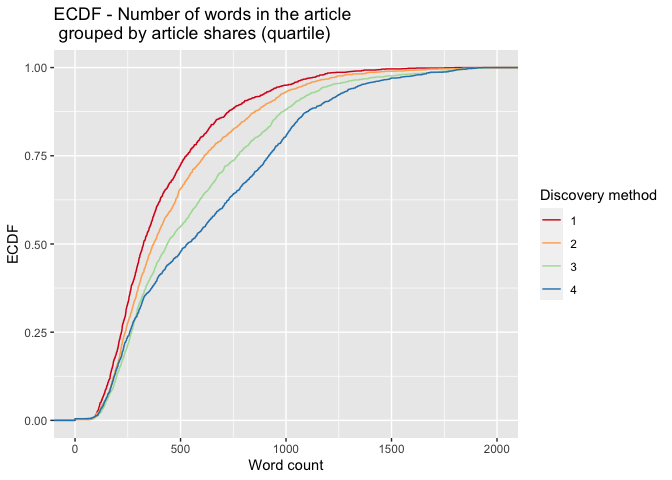
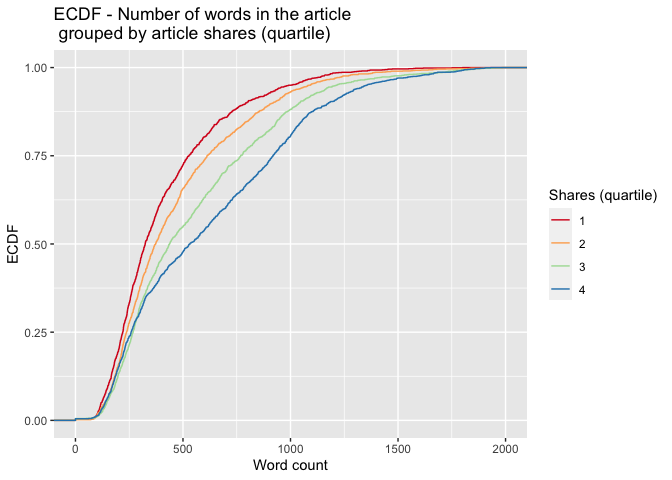
Minor formatting edits

diff --git a/data_channel_is_lifestyle.md b/data_channel_is_lifestyle.md
@@ -38,23 +38,6 @@ set](https://archive.ics.uci.edu/ml/datasets/Online+News+Popularity).
 The top ten articles in this category, based on the number of shares on
 social media, include the following titles:
 
-    ## # A tibble: 10 × 3
-    ##    url            shares title
-    ##    <chr>           <dbl> <lgl>
-    ##  1 http://mashab… 843300 NA   
-    ##  2 http://mashab… 690400 NA   
-    ##  3 http://mashab… 663600 NA   
-    ##  4 http://mashab… 652900 NA   
-    ##  5 http://mashab… 617900 NA   
-    ##  6 http://mashab… 441000 NA   
-    ##  7 http://mashab… 310800 NA   
-    ##  8 http://mashab… 306100 NA   
-    ##  9 http://mashab… 298400 NA   
-    ## 10 http://mashab… 284700 NA
-
-    ## Warning: Unknown or
-    ## uninitialised column: `title`.
-
 | Shares | Article title                                                   |
 |-------:|:----------------------------------------------------------------|
 | 843300 | Leaked: More Low-Cost iPhone Photos                             |
@@ -248,7 +231,7 @@ sharesBox + geom_boxplot(outlier.shape = NA) +
   # Remove legend after coloration
   theme(legend.position = "none") +
   labs(x = "Day", y = "Shares",
-       title = "Distribution of article shares for each publication day") + scale_fill_brewer(palette = "Spectral", name = "Discovery method")
+       title = "Distribution of article shares for each publication day") + scale_fill_brewer(palette = "Spectral")
 ```
 
 ![](images/lifestyle/boxpot%20-1.png)<!-- -->
@@ -262,12 +245,11 @@ binnedShares <- binnedShares %>% mutate(totalMedia = num_imgs + num_videos)
 avgWordHisto <- ggplot(binnedShares, aes(x = n_tokens_content, colour = shareQuantile))
 avgWordHisto + stat_ecdf(geom = "step", aes(color = as.character(shareQuantile))) +
   labs(title="ECDF - Number of words in the article \n grouped by article shares (quartile)",
-     y = "ECDF", x="Word count", color = "Shares (quartile)") + xlim(0,2000) + scale_colour_brewer(palette = "Spectral", name = "Discovery method")
+     y = "ECDF", x="Word count", color = "Shares (quartile)") + xlim(0,2000) + scale_colour_brewer(palette = "Spectral", name = "Shares (quartile)")
 ```
 
     ## Warning: Removed 32 rows containing
-    ## non-finite values
-    ## (stat_ecdf).
+    ## non-finite values (stat_ecdf).
 
 ![](images/lifestyle/ecdf-1.png)<!-- -->
 

diff --git a/data_channel_is_entertainment.md b/data_channel_is_entertainment.md
@@ -38,23 +38,6 @@ set](https://archive.ics.uci.edu/ml/datasets/Online+News+Popularity).
 The top ten articles in this category, based on the number of shares on
 social media, include the following titles:
 
-    ## # A tibble: 10 × 3
-    ##    url                  shares title
-    ##    <chr>                 <dbl> <lgl>
-    ##  1 http://mashable.com… 843300 NA   
-    ##  2 http://mashable.com… 690400 NA   
-    ##  3 http://mashable.com… 663600 NA   
-    ##  4 http://mashable.com… 652900 NA   
-    ##  5 http://mashable.com… 617900 NA   
-    ##  6 http://mashable.com… 441000 NA   
-    ##  7 http://mashable.com… 310800 NA   
-    ##  8 http://mashable.com… 306100 NA   
-    ##  9 http://mashable.com… 298400 NA   
-    ## 10 http://mashable.com… 284700 NA
-
-    ## Warning: Unknown or uninitialised
-    ## column: `title`.
-
 | Shares | Article title                                                   |
 |-------:|:----------------------------------------------------------------|
 | 843300 | Leaked: More Low-Cost iPhone Photos                             |
@@ -248,7 +231,7 @@ sharesBox + geom_boxplot(outlier.shape = NA) +
   # Remove legend after coloration
   theme(legend.position = "none") +
   labs(x = "Day", y = "Shares",
-       title = "Distribution of article shares for each publication day") + scale_fill_brewer(palette = "Spectral", name = "Discovery method")
+       title = "Distribution of article shares for each publication day") + scale_fill_brewer(palette = "Spectral")
 ```
 
 ![](images/entertainment/boxpot%20-1.png)<!-- -->
@@ -262,7 +245,7 @@ binnedShares <- binnedShares %>% mutate(totalMedia = num_imgs + num_videos)
 avgWordHisto <- ggplot(binnedShares, aes(x = n_tokens_content, colour = shareQuantile))
 avgWordHisto + stat_ecdf(geom = "step", aes(color = as.character(shareQuantile))) +
   labs(title="ECDF - Number of words in the article \n grouped by article shares (quartile)",
-     y = "ECDF", x="Word count", color = "Shares (quartile)") + xlim(0,2000) + scale_colour_brewer(palette = "Spectral", name = "Discovery method")
+     y = "ECDF", x="Word count", color = "Shares (quartile)") + xlim(0,2000) + scale_colour_brewer(palette = "Spectral", name = "Shares (quartile)")
 ```
 
     ## Warning: Removed 165 rows containing

diff --git a/data_channel_is_socmed.md b/data_channel_is_socmed.md
@@ -38,23 +38,6 @@ set](https://archive.ics.uci.edu/ml/datasets/Online+News+Popularity).
 The top ten articles in this category, based on the number of shares on
 social media, include the following titles:
 
-    ## # A tibble: 10 × 3
-    ##    url                  shares title
-    ##    <chr>                 <dbl> <lgl>
-    ##  1 http://mashable.com… 843300 NA   
-    ##  2 http://mashable.com… 690400 NA   
-    ##  3 http://mashable.com… 663600 NA   
-    ##  4 http://mashable.com… 652900 NA   
-    ##  5 http://mashable.com… 617900 NA   
-    ##  6 http://mashable.com… 441000 NA   
-    ##  7 http://mashable.com… 310800 NA   
-    ##  8 http://mashable.com… 306100 NA   
-    ##  9 http://mashable.com… 298400 NA   
-    ## 10 http://mashable.com… 284700 NA
-
-    ## Warning: Unknown or uninitialised
-    ## column: `title`.
-
 | Shares | Article title                                                   |
 |-------:|:----------------------------------------------------------------|
 | 843300 | Leaked: More Low-Cost iPhone Photos                             |
@@ -248,7 +231,7 @@ sharesBox + geom_boxplot(outlier.shape = NA) +
   # Remove legend after coloration
   theme(legend.position = "none") +
   labs(x = "Day", y = "Shares",
-       title = "Distribution of article shares for each publication day") + scale_fill_brewer(palette = "Spectral", name = "Discovery method")
+       title = "Distribution of article shares for each publication day") + scale_fill_brewer(palette = "Spectral")
 ```
 
 ![](images/socmed/boxpot%20-1.png)<!-- -->
@@ -262,7 +245,7 @@ binnedShares <- binnedShares %>% mutate(totalMedia = num_imgs + num_videos)
 avgWordHisto <- ggplot(binnedShares, aes(x = n_tokens_content, colour = shareQuantile))
 avgWordHisto + stat_ecdf(geom = "step", aes(color = as.character(shareQuantile))) +
   labs(title="ECDF - Number of words in the article \n grouped by article shares (quartile)",
-     y = "ECDF", x="Word count", color = "Shares (quartile)") + xlim(0,2000) + scale_colour_brewer(palette = "Spectral", name = "Discovery method")
+     y = "ECDF", x="Word count", color = "Shares (quartile)") + xlim(0,2000) + scale_colour_brewer(palette = "Spectral", name = "Shares (quartile)")
 ```
 
     ## Warning: Removed 102 rows containing

diff --git a/data_channel_is_tech.md b/data_channel_is_tech.md
@@ -38,23 +38,6 @@ set](https://archive.ics.uci.edu/ml/datasets/Online+News+Popularity).
 The top ten articles in this category, based on the number of shares on
 social media, include the following titles:
 
-    ## # A tibble: 10 × 3
-    ##    url                  shares title
-    ##    <chr>                 <dbl> <lgl>
-    ##  1 http://mashable.com… 843300 NA   
-    ##  2 http://mashable.com… 690400 NA   
-    ##  3 http://mashable.com… 663600 NA   
-    ##  4 http://mashable.com… 652900 NA   
-    ##  5 http://mashable.com… 617900 NA   
-    ##  6 http://mashable.com… 441000 NA   
-    ##  7 http://mashable.com… 310800 NA   
-    ##  8 http://mashable.com… 306100 NA   
-    ##  9 http://mashable.com… 298400 NA   
-    ## 10 http://mashable.com… 284700 NA
-
-    ## Warning: Unknown or uninitialised
-    ## column: `title`.
-
 | Shares | Article title                                                   |
 |-------:|:----------------------------------------------------------------|
 | 843300 | Leaked: More Low-Cost iPhone Photos                             |
@@ -248,7 +231,7 @@ sharesBox + geom_boxplot(outlier.shape = NA) +
   # Remove legend after coloration
   theme(legend.position = "none") +
   labs(x = "Day", y = "Shares",
-       title = "Distribution of article shares for each publication day") + scale_fill_brewer(palette = "Spectral", name = "Discovery method")
+       title = "Distribution of article shares for each publication day") + scale_fill_brewer(palette = "Spectral")
 ```
 
 ![](images/tech/boxpot%20-1.png)<!-- -->
@@ -262,7 +245,7 @@ binnedShares <- binnedShares %>% mutate(totalMedia = num_imgs + num_videos)
 avgWordHisto <- ggplot(binnedShares, aes(x = n_tokens_content, colour = shareQuantile))
 avgWordHisto + stat_ecdf(geom = "step", aes(color = as.character(shareQuantile))) +
   labs(title="ECDF - Number of words in the article \n grouped by article shares (quartile)",
-     y = "ECDF", x="Word count", color = "Shares (quartile)") + xlim(0,2000) + scale_colour_brewer(palette = "Spectral", name = "Discovery method")
+     y = "ECDF", x="Word count", color = "Shares (quartile)") + xlim(0,2000) + scale_colour_brewer(palette = "Spectral", name = "Shares (quartile)")
 ```
 
     ## Warning: Removed 157 rows containing

diff --git a/data_channel_is_world.md b/data_channel_is_world.md
@@ -38,23 +38,6 @@ set](https://archive.ics.uci.edu/ml/datasets/Online+News+Popularity).
 The top ten articles in this category, based on the number of shares on
 social media, include the following titles:
 
-    ## # A tibble: 10 × 3
-    ##    url                  shares title
-    ##    <chr>                 <dbl> <lgl>
-    ##  1 http://mashable.com… 843300 NA   
-    ##  2 http://mashable.com… 690400 NA   
-    ##  3 http://mashable.com… 663600 NA   
-    ##  4 http://mashable.com… 652900 NA   
-    ##  5 http://mashable.com… 617900 NA   
-    ##  6 http://mashable.com… 441000 NA   
-    ##  7 http://mashable.com… 310800 NA   
-    ##  8 http://mashable.com… 306100 NA   
-    ##  9 http://mashable.com… 298400 NA   
-    ## 10 http://mashable.com… 284700 NA
-
-    ## Warning: Unknown or uninitialised
-    ## column: `title`.
-
 | Shares | Article title                                                   |
 |-------:|:----------------------------------------------------------------|
 | 843300 | Leaked: More Low-Cost iPhone Photos                             |
@@ -248,7 +231,7 @@ sharesBox + geom_boxplot(outlier.shape = NA) +
   # Remove legend after coloration
   theme(legend.position = "none") +
   labs(x = "Day", y = "Shares",
-       title = "Distribution of article shares for each publication day") + scale_fill_brewer(palette = "Spectral", name = "Discovery method")
+       title = "Distribution of article shares for each publication day") + scale_fill_brewer(palette = "Spectral")
 ```
 
 ![](images/world/boxpot%20-1.png)<!-- -->
@@ -262,7 +245,7 @@ binnedShares <- binnedShares %>% mutate(totalMedia = num_imgs + num_videos)
 avgWordHisto <- ggplot(binnedShares, aes(x = n_tokens_content, colour = shareQuantile))
 avgWordHisto + stat_ecdf(geom = "step", aes(color = as.character(shareQuantile))) +
   labs(title="ECDF - Number of words in the article \n grouped by article shares (quartile)",
-     y = "ECDF", x="Word count", color = "Shares (quartile)") + xlim(0,2000) + scale_colour_brewer(palette = "Spectral", name = "Discovery method")
+     y = "ECDF", x="Word count", color = "Shares (quartile)") + xlim(0,2000) + scale_colour_brewer(palette = "Spectral", name = "Shares (quartile)")
 ```
 
     ## Warning: Removed 97 rows containing

diff --git a/data_channel_is_bus.md b/data_channel_is_bus.md
@@ -38,23 +38,6 @@ set](https://archive.ics.uci.edu/ml/datasets/Online+News+Popularity).
 The top ten articles in this category, based on the number of shares on
 social media, include the following titles:
 
-    ## # A tibble: 10 × 3
-    ##    url                  shares title
-    ##    <chr>                 <dbl> <lgl>
-    ##  1 http://mashable.com… 843300 NA   
-    ##  2 http://mashable.com… 690400 NA   
-    ##  3 http://mashable.com… 663600 NA   
-    ##  4 http://mashable.com… 652900 NA   
-    ##  5 http://mashable.com… 617900 NA   
-    ##  6 http://mashable.com… 441000 NA   
-    ##  7 http://mashable.com… 310800 NA   
-    ##  8 http://mashable.com… 306100 NA   
-    ##  9 http://mashable.com… 298400 NA   
-    ## 10 http://mashable.com… 284700 NA
-
-    ## Warning: Unknown or uninitialised
-    ## column: `title`.
-
 | Shares | Article title                                                   |
 |-------:|:----------------------------------------------------------------|
 | 843300 | Leaked: More Low-Cost iPhone Photos                             |
@@ -248,7 +231,7 @@ sharesBox + geom_boxplot(outlier.shape = NA) +
   # Remove legend after coloration
   theme(legend.position = "none") +
   labs(x = "Day", y = "Shares",
-       title = "Distribution of article shares for each publication day") + scale_fill_brewer(palette = "Spectral", name = "Discovery method")
+       title = "Distribution of article shares for each publication day") + scale_fill_brewer(palette = "Spectral")
 ```
 
 ![](images/bus/boxpot%20-1.png)<!-- -->
@@ -262,7 +245,7 @@ binnedShares <- binnedShares %>% mutate(totalMedia = num_imgs + num_videos)
 avgWordHisto <- ggplot(binnedShares, aes(x = n_tokens_content, colour = shareQuantile))
 avgWordHisto + stat_ecdf(geom = "step", aes(color = as.character(shareQuantile))) +
   labs(title="ECDF - Number of words in the article \n grouped by article shares (quartile)",
-     y = "ECDF", x="Word count", color = "Shares (quartile)") + xlim(0,2000) + scale_colour_brewer(palette = "Spectral", name = "Discovery method")
+     y = "ECDF", x="Word count", color = "Shares (quartile)") + xlim(0,2000) + scale_colour_brewer(palette = "Spectral", name = "Shares (quartile)")
 ```
 
     ## Warning: Removed 83 rows containing
